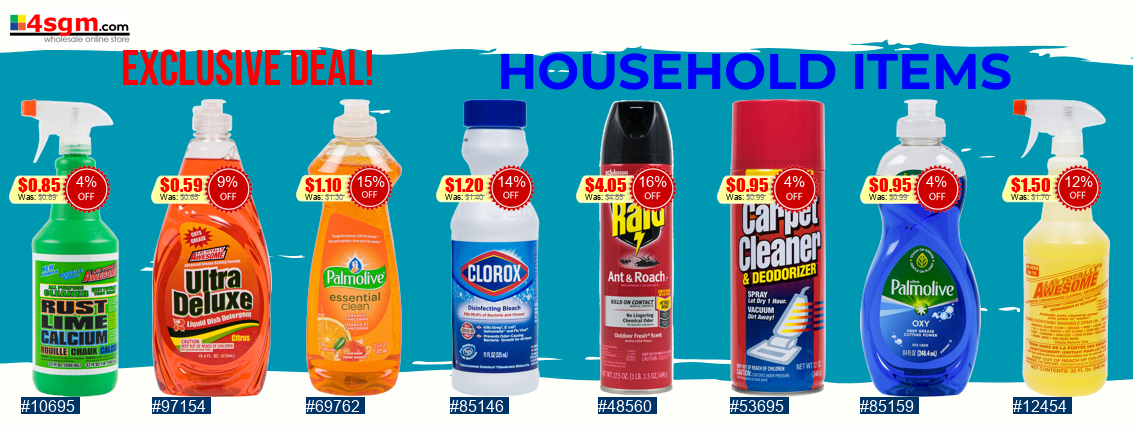
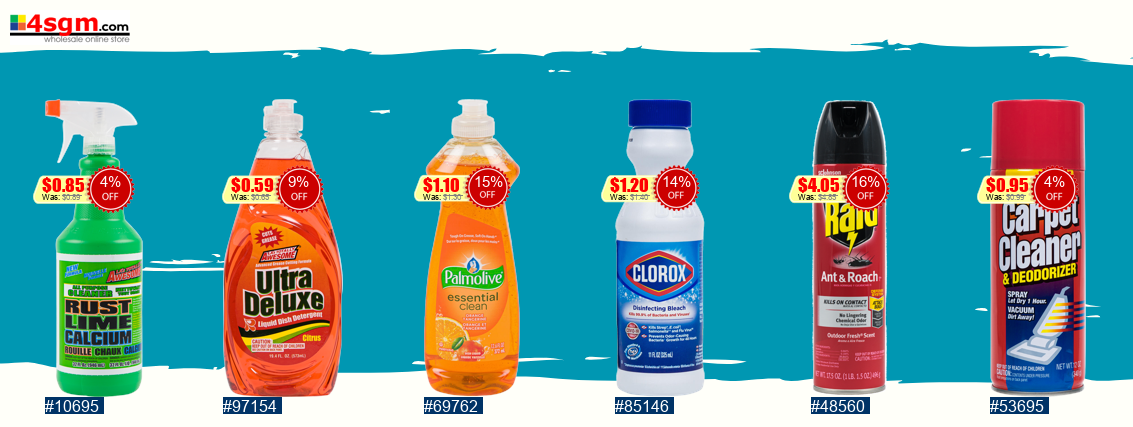
fix error on number of displayed items based on template#

diff --git a/generate_banner.py b/generate_banner.py
@@ -199,43 +199,20 @@ class ProductImageGenerator:
         # Set a default value for y-coordinate
         default_y = logo_height - 30  # Adjust the default y-coordinate
 
-        # Iterate over each text element
-        for text_element in self.text_elements:
-            text = text_element['text']
-            font_size = text_element['font_size']
-            font_path = os.path.join("fonts", text_element['font'])
-            font = ImageFont.truetype(font_path, size=text_element['font_size'])
-            color = ImageColor.getrgb(text_element['color'])
-            # Use default value if 'y' coordinate is missing
-            y = text_element.get('y', default_y)
-            # Calculate the width and height of the text element
-            bbox = font.getbbox(text)
-            width = bbox[2] - bbox[0]
-            height = bbox[3] - bbox[1]
-            # Check if the width exceeds the template width
-            if total_width > self.template_img.width:
-                # If width exceeds, scale down the width of the text elements
-                scale_factor = self.template_img.width / total_width
-                width *= scale_factor
-                height *= scale_factor
-            # Draw text
-            self.draw.text((current_x, y), text, font=font, fill=color)
-            # Update current_x for the next text element
-            current_x += width + spacing
-
     def generate_images(self):
         self.load_product_data()
         self.load_template_image()
         self.draw_text_elements()
 
         print(self.template_name)
-        if self.template_name == "1":
-            total_products = min(len(self.products), 8)
-        elif self.template_name == "2":
-            total_products = min(len(self.products), 6)
-        else:
-            total_products = len(self.products)
-        
+
+        # Count total products
+        if self.template_name == 1:
+            total_products = 8
+        elif self.template_name == 2:
+            total_products = 6
+
+        # Add more conditions for other templates
         for index, product in enumerate(self.products[:total_products]):
             self.generate_product_image(product, index, total_products)
 
